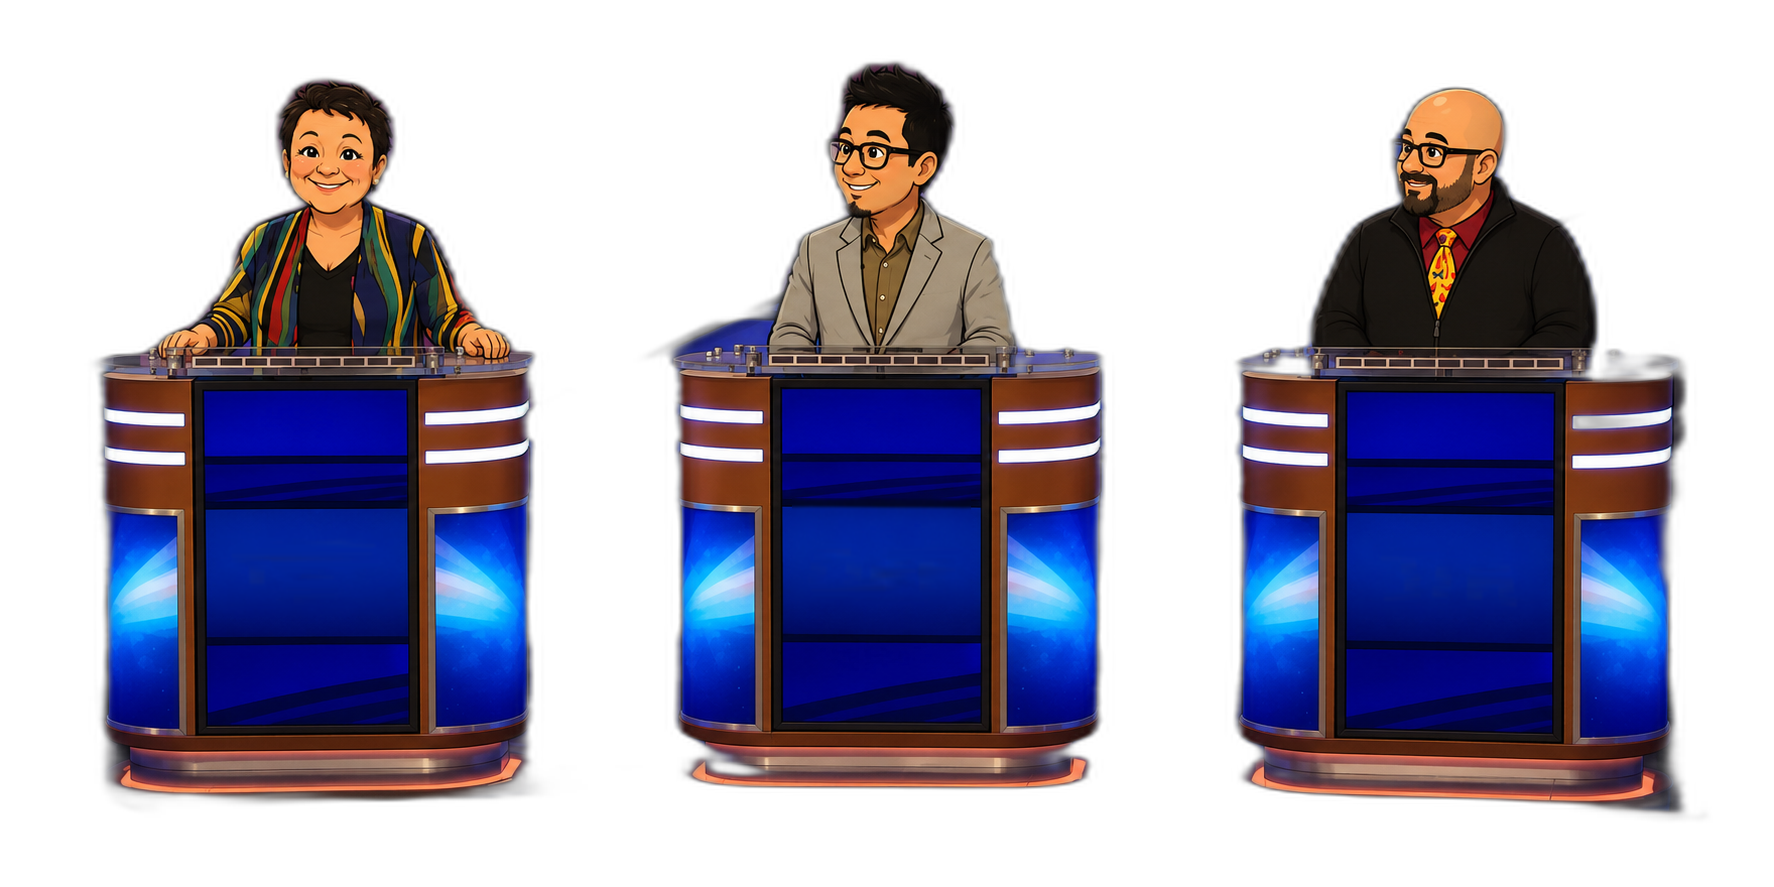
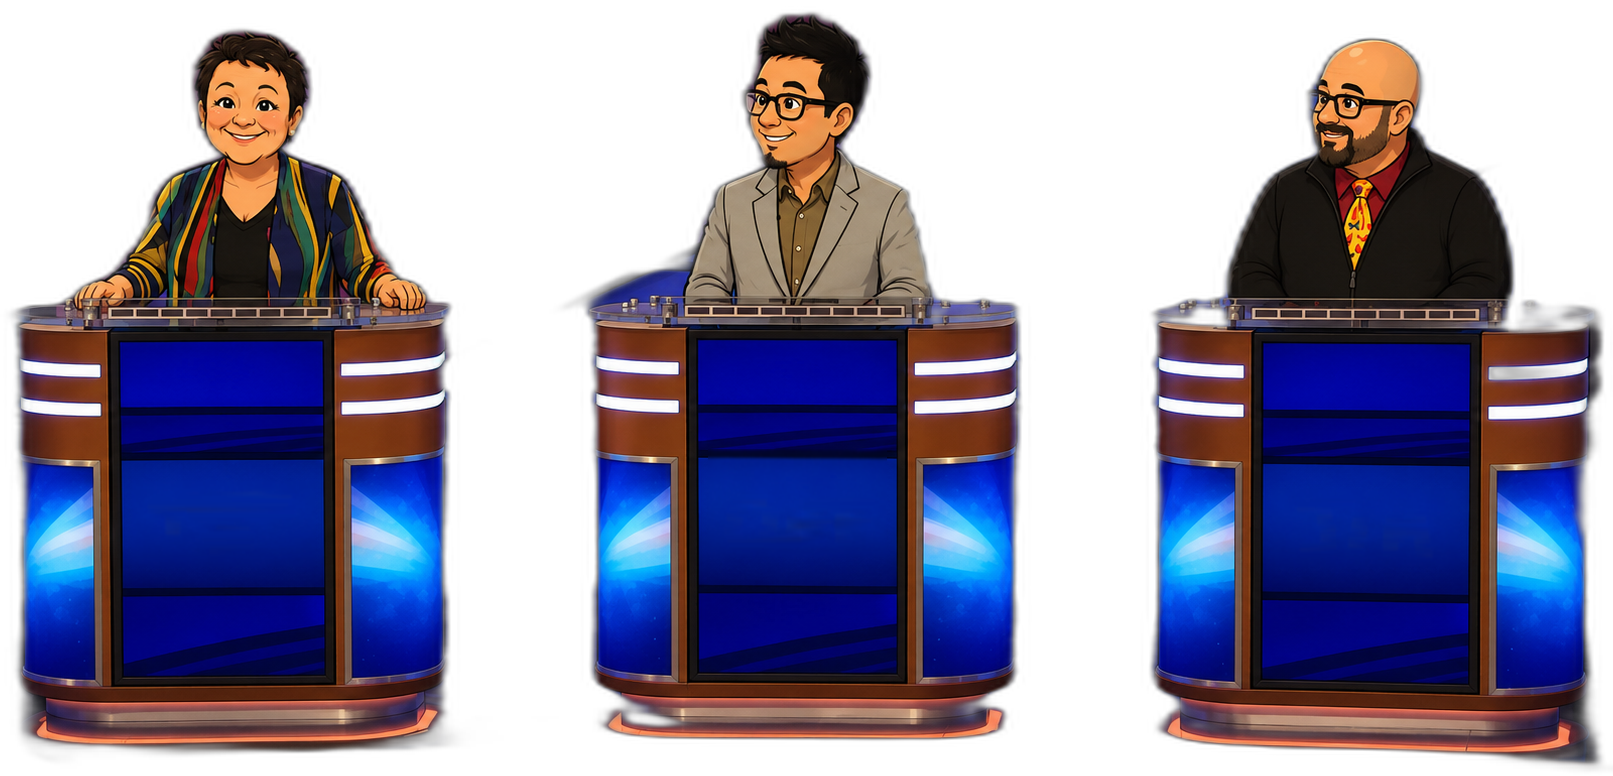
Show the whole podium
Any crop tight enough to keep this strip a sensible depth cut the podiums
off at the rail, which is the opposite of the point — the art is three
people standing at Jeopardy podiums.

So there's no fixed height and no object-cover any more. The image keeps
its own proportions and is capped on WIDTH instead, so the whole thing is
always visible and the depth follows from it. The surround is black
because the artwork's own background is black: there is no seam to see,
just more stage either side of it.

The source PNG is also trimmed to its content — it was carrying a fat
black margin top and bottom, which was pure height with nothing in it.

And the eyebrow moved out of the image into its own bar: overlaid, it
landed squarely on the left contestant's face the moment the art filled a
phone's width.

diff --git a/src/components/ContestantScores.tsx b/src/components/ContestantScores.tsx
@@ -64,22 +64,26 @@ export function ContestantScores({ gameIdSource }: { gameIdSource: number }) {
 
   return (
     <div className="mb-5 overflow-hidden rounded-md border border-copper/30 bg-black/40">
-      {/* The podium art from the home board — the three people whose night
-          this was. Full-bleed: capped at max-w-md it sat in the middle of a
-          wide panel with dark voids either side and 40% of itself cropped
-          away, which is what made this read as squashed. */}
-      <div className="relative h-[104px] overflow-hidden sm:h-[150px] md:h-[184px]">
+      {/* The three people whose night this was, podiums and all.
+          No fixed height and no object-cover: any crop tight enough to keep
+          this strip a sensible depth cut the podiums off at the rail. The
+          image keeps its own proportions and is capped on WIDTH instead, so
+          the whole thing is always visible and the depth follows from it.
+          The surround is black because the artwork's own background is —
+          there's no seam to see, just more stage. */}
+      {/* The eyebrow gets its own bar rather than floating over the art:
+          overlaid, it landed on the left contestant's face as soon as the
+          image filled a phone's width. */}
+      <p className="bg-black/60 px-3 py-1.5 text-[9px] font-bold uppercase tracking-[0.24em] text-copper sm:text-[10px]">
+        ▸ The night this aired
+      </p>
+      <div className="flex justify-center bg-black">
         <img
           src="/contestants.png"
           alt=""
           aria-hidden="true"
-          className="absolute inset-0 h-full w-full select-none object-cover opacity-90"
-          style={{ objectPosition: 'center 12%' }}
+          className="w-full max-w-[520px] select-none"
         />
-        <div className="pointer-events-none absolute inset-0 bg-gradient-to-t from-black/80 via-transparent to-black/40" />
-        <p className="absolute left-3 top-2.5 text-[9px] font-bold uppercase tracking-[0.24em] text-copper sm:text-[10px]">
-          ▸ The night this aired
-        </p>
       </div>
 
       <div className="grid grid-cols-3 divide-x divide-white/10 border-t border-white/10">
